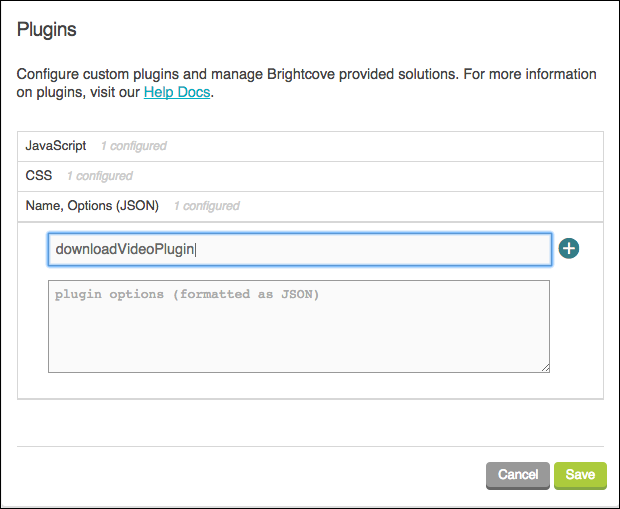
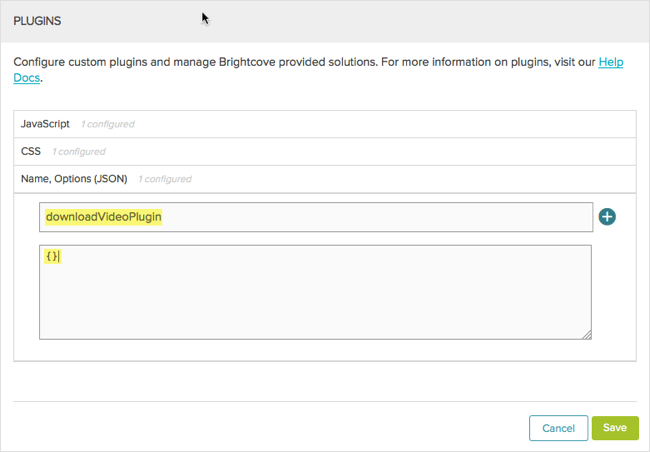
update Download Video doc

diff --git a/en/perform/brightcove-player/samples/download-video.html b/en/perform/brightcove-player/samples/download-video.html
@@ -24,13 +24,7 @@
   ga('send', 'pageview');
 
 </script>
-	<script src="https://cdnjs.cloudflare.com/ajax/libs/foundation/5.5.2/js/vendor/modernizr.js"></script>
-  <style type="text/css">
-    iframe {
-      width: 640px;
-      height: 360px;
-    }
-  </style>    
+	<script src="https://cdnjs.cloudflare.com/ajax/libs/foundation/5.5.2/js/vendor/modernizr.js"></script>   
 </head>
 
 <body>
@@ -119,18 +113,14 @@
 			<div id="player" class="section">
 				<h2>The player</h2>
 				<p>Click the download icon located on the right side of the control bar to download the highest quality MP4 rendition of the video loaded in the player.</p>
-        <iframe width='480' height='270' src='//players.brightcove.net/1752604059001/eab91441-ce41-4c12-8322-4b70ce6ac324_default/index.html' allowfullscreen webkitallowfullscreen mozallowfullscreen></iframe>
+        <iframe width='640' height='360' src='//players.brightcove.net/1752604059001/eab91441-ce41-4c12-8322-4b70ce6ac324_default/index.html' allowfullscreen webkitallowfullscreen mozallowfullscreen></iframe>
 			</div>
       
-			<div id="code" class="section">
-				<h2>How it works</h2>
-				<p>The following sections explain the player, JavaScript and CSS code used in the example.</p>
+       <div id="code" class="section">
+       <h2>How it works</h2>
+       <p>The following sections explain the player, JavaScript and CSS code used in the example.</p>
                 
         <h3>Create the player</h3>
-<!--
-        <p>Login to your Video Cloud Studio account and create a new video player. Open the player's properties page and edit the <strong>Video Content</strong> section. Here you can specify the <strong>Video ID</strong> for the video you wish to publish. Video IDs can be found in the Media module.</p>
-        <div><img src="/en/video-cloud/brightcove-player/samples/assets/navigate-on-video-end-video-id.png" alt="" class="video-cloud-only"></div>
--->
         <p>To create a player and assign a video to it, follow these steps:</p>
           <ol>
               <li>In the <strong>Players</strong> module, create a new player or use an existing one.</li>
@@ -139,63 +129,84 @@
           </ol>
           <p class="BCL-aside">For details on how to get this embed code, see the <a href="../../brightcove-player/getting-started/quick-start-bc-player.html">Quick Start to Brightcove Player</a> document.</p>
           <p>The embed code should look like this:</p>
-                
-<!--
-				<h3>The player code</h3>
-          <p>Once your player has been published, you can click the <strong>Embed Code &amp; URL</strong> button and choose the <strong>Published Player</strong> link. You will find the player code in the <strong>In-Page Embed Code</strong> section.</p>
--->
           <p><code data-gist-id="4decd28717b7e9c4d56e" data-gist-hide-footer="true" data-gist-line="27-34"></code></p>
                 
-				<h3>The JavaScript code</h3>
-				<p>The following provides an overview of the functionality of the code:</p>
-        <ol>
-            <li>Retrieve the video ID of video in the player. Notice that the data retrieved by the <code>options()</code> method includes <code>data-video-id</code>.
-            <div><img src="/en/video-cloud/brightcove-player/guides/assets/download-options.png" alt="download options"></div>
-            </li>
-            <li>Use the video's ID to get the video object and load the video. This may seem unnecessary as the video is already playing, but you need to load the video to populate the <code>mediainfo</code> property.</li>
-            <li>Retrieve the <code>sources</code> array from the <code>mediainfo</code> property, which includes as elements all renditions of the currently loaded video.
-                <div><img src="/en/video-cloud/brightcove-player/guides/assets/download-mediainfo.png" alt="download mediainfo"></div></li>
-            <li>Create another array which contains the filtered and sorted renditions so only the MP4 renditions are in a new array, sorted from largest to smallest.</li>
-            <li>Assign the zeroth element of the new array to a variable. The zeroth element contains the rendition with the largest size, hence the best quality.</li>
-            <li>Create a link for download.</li>
-        </ol>
+        <h3>The JavaScript code</h3>
+        <p>The following provides an overview of the functionality of the code:</p>
+            <ol>
+                <li>Retrieve the video ID of video in the player. Notice that the data retrieved by the <code>options()</code> method includes <code>data-video-id</code>.
+                <div><img src="/en/video-cloud/brightcove-player/guides/assets/download-options.png" alt="download options"></div>
+                </li>
+                <li>Use the video's ID to get the video object and load the video. This may seem unnecessary as the video is already playing, but you need to load the video to populate the <code>mediainfo</code> property.</li>
+                <li>Retrieve the <code>sources</code> array from the <code>mediainfo</code> property, which includes as elements all renditions of the currently loaded video.
+                    <div><img src="/en/video-cloud/brightcove-player/guides/assets/download-mediainfo.png" alt="download mediainfo"></div></li>
+                <li>Create another array which contains the filtered and sorted renditions so only the MP4 renditions are in a new array, sorted from largest to smallest.</li>
+                <li>Assign the zeroth element of the new array to a variable. The zeroth element contains the rendition with the largest size, hence the best quality.</li>
+                <li>Create a link for download.</li>
+            </ol>
+           
         <p>The following code is the actual implementation of the general steps above.</p>
-        <ul>
-            <li>Lines 28-35: Create variables used later in the code.</li>
-            <li>Line 36: Assign a variable the video ID, retrieved from data by calling the <code>options()</code> method.</li>
-            <li>Line 37: Use the <code>getVideo()</code> method, passing the video ID as a parameter, to get the video object of the currently playing video.</li>
-            <li>Line 38: Use the <code>load()</code> method.</li>
-            <li>Line 39: Assign the <code>name</code> of the video to a variable for later use in the link tag.</li>
-            <li>Line 40: Assign the <code>sources</code> array to a variable.</li>
-            <li>Line: 41: Assign the length of the array to variable.</li>
-            <li>Lines 42-46: Loop over the array and assign to a second array renditions where the <code>container</code> is <strong>MP4</strong>, AND the rendition has a <code>src</code> property. The MP4 renditions appear twice in the <code>sources</code> array, once with a <code>src</code> property and once with a <code>stream_name</code> property. The first is for progressive download and the second for streaming.</li>
-            <li>Lines 47-49: Sort the array of MP4s.</li>
-            <li>Line 50: Assign the largest rendition to a variable.</li>
-            <li>Lines 51-54: Create and style a <code>div</code> tag that contains the link.</li>
-            <li>Lines 55-56: Retrieve the <code>vjs-control-bar</code> element and append the newly create <code>div</code> to it. It may seem odd that with an append the icon appears on the left side of the control bar, but this is because all the other elements on the control bar are positioned using CSS.</li>
-        </ul>
+            <ul>
+                <li>Lines 38-45: Create variables used later in the code.</li>
+                <li>Line 47: Assign a variable the video ID, retrieved from data by calling the <code>options()</code> method.</li>
+                <li>Line 48: Use the <code>getVideo()</code> method, passing the video ID as a parameter, to get the video object of the currently playing video.</li>
+                <li>Line 49: Use the <code>load()</code> method.</li>
+                <li>Line 50: Assign the <code>name</code> of the video to a variable for later use in the link tag.</li>
+                <li>Line 51: Assign the <code>sources</code> array to a variable.</li>
+                <li>Line: 52: Assign the length of the array to variable.</li>
+                <li>Lines 53-57: Loop over the array and assign to a second array renditions where the <code>container</code> is <strong>MP4</strong>, AND the rendition has a <code>src</code> property. The MP4 renditions appear twice in the <code>sources</code> array, once with a <code>src</code> property and once with a <code>stream_name</code> property. The first is for progressive download and the second for streaming.</li>
+                <li>Lines 58-60: Sort the array of MP4s.</li>
+                <li>Line 61: Assign the largest rendition to a variable.</li>
+                <li>Lines 62-65: Define and create and a <code>div</code> tag that contains the link.</li>
+                <li>Lines 66-67: Retrieve the <code>vjs-control-bar</code> element and append the newly create <code>div</code> to it. It may seem odd that with an append the icon appears on the left side of the control bar, but this is because all the other elements on the control bar are positioned using CSS.</li>
+            </ul>
           <p><code data-gist-id="4decd28717b7e9c4d56e" data-gist-hide-footer="true" data-gist-line="36-70"></code></p>
-          <div class="BCL-aside">
-            <p>The <code>order</code> style determines the arrangement of icons on the control bar. For older browsers some more styles may be required, as shown here:</p>
-            <p><code data-gist-id="4decd28717b7e9c4d56e" data-gist-hide-footer="true" data-gist-line="274-280"></code></p>
-          </div>
-        <h3>The stylesheet</h3>
-				<p>No stylesheet is used in this implementation. The two styles for the icon were assigned via JavaScript, lines 52-54 above.</p>
-			</div>
+           
+           <h3>The stylesheet</h3>
+        <p>This example uses CSS styles for the Brightcove player.</p>
+		  <ul>
+              <li><p>Lines 10-14: Set the order of the download button in the control bar. This example places the download video button to the right of the fullscreen button.</p> 
+              <p class="BCL-aside">Note: the control bar uses a flex container to layout its elements. By default, flex items are laid out as they appear in the HTML source code. The CSS <code>order</code> property allows you to control the position of flex elements. For older browsers, you need to include additional prefixed order properties.</p>
+              <p>For more details about setting the control bar icon order, see the <a href="../../brightcove-player/guides/customize-appearance.html#iconorder">Customize Player Appearance</a> document.</p></li>
+			  <li>Line 15: Positions the download icon vertically.</li>
+              <li>Lines 17-21: Set the dimensions for the container and horizontally center the download icon within the container.</li>
+		  </ul>
+        <p><code data-gist-id="4decd28717b7e9c4d56e" data-gist-hide-footer="true" data-gist-line="7-22"></code></p>       
+	  </div>
       
 			<div id="plugin" class="section">
 				<h2>Use a plugin</h2>
 				<p>It is a best practice to use a plugin so that you can easily add the JavaScript code's functionality to multiple players.</p>
 				<h3>Create the JavaScript file</h3>
 				<p>Move the plugin's JavaScript code into a file and place it in an Internet accessible URL.</p>
-				<ul>
-				    <li>Lines 146,178: Use the standard syntax to begin and end a Brightcove Player plugin.</li>
-				    <li>Line 146: The first argument of the function call is the name of the function defined in the plugin code, in this case <code>downloadVideoPlugin</code>.</li>
-				    <li>Line 178: The trailing semicolon is required.</li>
-				</ul>
+                <ol>
+                  <li>Create a new file for your plugin JavaScript code. In this case, name it <code>download-video.js</code>.</li>
+                  <li>Cut and paste the JavaScript code from your main HTML file into this new file.</li>
+                  <li>Lines 153,185: Wrap your JavaScript code using the <code>videojs.plugin()</code> function. The first argument, <code>downloadVideoPlugin</code>, is the plugin name.</li>
+                  <li>Line 154: Gets a reference to your player.</li>
+                  <li>The rest is your JavaScript code which was reviewed in a previous section.</li>
+                </ol>
+                <p class="BCL-aside">Note: Line 185: Has a trailing semicolon at the end of the plugin's JavaScript code which is required.</p>
           <p><code data-gist-id="4decd28717b7e9c4d56e" data-gist-hide-footer="true" data-gist-line="153-185"></code></p>
-				<h3>Create the CSS file</h3>
-				<p>There is no CSS file needed for this plugin.</p>
+                <ol start="6">
+                  <li>In the HTML file, add the following code just below the existing <code>&lt;script&gt;</code> tags. This code includes the JavaScript file and then calls the method defined in that JavaScript.</li>
+                </ol>
+                <p><code data-gist-id="4decd28717b7e9c4d56e" data-gist-hide-footer="true" data-gist-line="287-288" ></code></p>
+                <ol start="7">
+                  <li>Browse the HTML page. You should see the download video button, except now your JavaScript code has been removed from the HTML page.</li>
+                </ol> 
+                
+                <h3>Create the CSS file</h3>
+              <p>Move the CSS styles into a file and place it in an Internet accessible URL.</p>
+              <ol>
+                  <li>Create a new file for your CSS styles. In this case, name it <code>download-video.css</code>.</li>
+                  <li>In the <code>&lt;head&gt;</code> section of your HTML file, add the following link to include your newly created CSS file.</li>
+                </ol>
+              <p><code data-gist-id="4decd28717b7e9c4d56e" data-gist-hide-footer="true" data-gist-line="285" ></code></p>
+              <ol start="3">
+                  <li>Browse the HTML page. You should see the download video button, except now your styles have been removed from the HTML page.</li>
+              </ol> 
+                
         <h3>Deploy plugin and CSS</h3>
         <p>To deploy the plugin using the Players module, follow these steps:</p>
         <ol>
@@ -203,10 +214,10 @@
           <li>Click the link for the player to open the player properties.</li>
           <li>Locate the <strong>Plugins</strong> section and click <strong>Edit</strong>.</li>
           <li>For the <strong>JavaScript URL</strong>, enter the URL which specifies the location of where you saved your plugin's JavaScript.</li>
-          <li>There is no CSS file to enter.</li>
+          <li>For the <strong>CSS URL</strong>, enter the URL which specifies the location of where you saved your plugin's CSS.</li>
           <li>For the <strong>Name</strong>, enter <strong>downloadVideoPlugin</strong>.</li>
           <li>There are no plugin options to enter. 
-              <div><img src="/en/video-cloud/brightcove-player/guides/assets/download-studio-plugin.png" alt="download video plugin"></div>
+              <div><img src="/en/video-cloud/brightcove-player/samples/assets/download-video-studio.png" alt="download video plugin"></div>
             </li>
             <li>Click <strong>Save</strong> and then <strong>Publish</strong> the player.</li>
           </ol>
@@ -214,7 +225,7 @@
       
       <div id="useiframe" class="section">
         <h2>Use iframe</h2>
-        <p>It is a best practice to use the iframe player implementation. Since you can create the download video functionality as a plugin, replace the embed_in_page implementation with the iframe implementation.</p>
+        <p>It is a best practice to use the iframe player implementation. Since you can create the download video functionality as a plugin, replace the In_Page embed implementation with the iframe implementation.</p>
           <p><code data-gist-id="4decd28717b7e9c4d56e" data-gist-hide-footer="true" data-gist-line="255-268"></code></p>
       </div>
 

diff --git a/en/video-cloud/brightcove-player/samples/download-video.html b/en/video-cloud/brightcove-player/samples/download-video.html
@@ -24,13 +24,7 @@
   ga('send', 'pageview');
 
 </script>
-	<script src="https://cdnjs.cloudflare.com/ajax/libs/foundation/5.5.2/js/vendor/modernizr.js"></script>
-  <style type="text/css">
-    iframe {
-      width: 640px;
-      height: 360px;
-    }
-  </style>    
+	<script src="https://cdnjs.cloudflare.com/ajax/libs/foundation/5.5.2/js/vendor/modernizr.js"></script>   
 </head>
 
 <body>
@@ -119,18 +113,14 @@
 			<div id="player" class="section">
 				<h2>The player</h2>
 				<p>Click the download icon located on the right side of the control bar to download the highest quality MP4 rendition of the video loaded in the player.</p>
-        <iframe width='480' height='270' src='//players.brightcove.net/1752604059001/eab91441-ce41-4c12-8322-4b70ce6ac324_default/index.html' allowfullscreen webkitallowfullscreen mozallowfullscreen></iframe>
+        <iframe width='640' height='360' src='//players.brightcove.net/1752604059001/eab91441-ce41-4c12-8322-4b70ce6ac324_default/index.html' allowfullscreen webkitallowfullscreen mozallowfullscreen></iframe>
 			</div>
       
-			<div id="code" class="section">
-				<h2>How it works</h2>
-				<p>The following sections explain the player, JavaScript and CSS code used in the example.</p>
+       <div id="code" class="section">
+       <h2>How it works</h2>
+       <p>The following sections explain the player, JavaScript and CSS code used in the example.</p>
                 
         <h3>Create the player</h3>
-<!--
-        <p>Login to your Video Cloud Studio account and create a new video player. Open the player's properties page and edit the <strong>Video Content</strong> section. Here you can specify the <strong>Video ID</strong> for the video you wish to publish. Video IDs can be found in the Media module.</p>
-        <div><img src="/en/video-cloud/brightcove-player/samples/assets/navigate-on-video-end-video-id.png" alt="" class="video-cloud-only"></div>
--->
         <p>To create a player and assign a video to it, follow these steps:</p>
           <ol>
               <li>In the <strong>Players</strong> module, create a new player or use an existing one.</li>
@@ -139,63 +129,84 @@
           </ol>
           <p class="BCL-aside">For details on how to get this embed code, see the <a href="../../brightcove-player/getting-started/quick-start-bc-player.html">Quick Start to Brightcove Player</a> document.</p>
           <p>The embed code should look like this:</p>
-                
-<!--
-				<h3>The player code</h3>
-          <p>Once your player has been published, you can click the <strong>Embed Code &amp; URL</strong> button and choose the <strong>Published Player</strong> link. You will find the player code in the <strong>In-Page Embed Code</strong> section.</p>
--->
           <p><code data-gist-id="4decd28717b7e9c4d56e" data-gist-hide-footer="true" data-gist-line="27-34"></code></p>
                 
-				<h3>The JavaScript code</h3>
-				<p>The following provides an overview of the functionality of the code:</p>
-        <ol>
-            <li>Retrieve the video ID of video in the player. Notice that the data retrieved by the <code>options()</code> method includes <code>data-video-id</code>.
-            <div><img src="/en/video-cloud/brightcove-player/guides/assets/download-options.png" alt="download options"></div>
-            </li>
-            <li>Use the video's ID to get the video object and load the video. This may seem unnecessary as the video is already playing, but you need to load the video to populate the <code>mediainfo</code> property.</li>
-            <li>Retrieve the <code>sources</code> array from the <code>mediainfo</code> property, which includes as elements all renditions of the currently loaded video.
-                <div><img src="/en/video-cloud/brightcove-player/guides/assets/download-mediainfo.png" alt="download mediainfo"></div></li>
-            <li>Create another array which contains the filtered and sorted renditions so only the MP4 renditions are in a new array, sorted from largest to smallest.</li>
-            <li>Assign the zeroth element of the new array to a variable. The zeroth element contains the rendition with the largest size, hence the best quality.</li>
-            <li>Create a link for download.</li>
-        </ol>
+        <h3>The JavaScript code</h3>
+        <p>The following provides an overview of the functionality of the code:</p>
+            <ol>
+                <li>Retrieve the video ID of video in the player. Notice that the data retrieved by the <code>options()</code> method includes <code>data-video-id</code>.
+                <div><img src="/en/video-cloud/brightcove-player/guides/assets/download-options.png" alt="download options"></div>
+                </li>
+                <li>Use the video's ID to get the video object and load the video. This may seem unnecessary as the video is already playing, but you need to load the video to populate the <code>mediainfo</code> property.</li>
+                <li>Retrieve the <code>sources</code> array from the <code>mediainfo</code> property, which includes as elements all renditions of the currently loaded video.
+                    <div><img src="/en/video-cloud/brightcove-player/guides/assets/download-mediainfo.png" alt="download mediainfo"></div></li>
+                <li>Create another array which contains the filtered and sorted renditions so only the MP4 renditions are in a new array, sorted from largest to smallest.</li>
+                <li>Assign the zeroth element of the new array to a variable. The zeroth element contains the rendition with the largest size, hence the best quality.</li>
+                <li>Create a link for download.</li>
+            </ol>
+           
         <p>The following code is the actual implementation of the general steps above.</p>
-        <ul>
-            <li>Lines 28-35: Create variables used later in the code.</li>
-            <li>Line 36: Assign a variable the video ID, retrieved from data by calling the <code>options()</code> method.</li>
-            <li>Line 37: Use the <code>getVideo()</code> method, passing the video ID as a parameter, to get the video object of the currently playing video.</li>
-            <li>Line 38: Use the <code>load()</code> method.</li>
-            <li>Line 39: Assign the <code>name</code> of the video to a variable for later use in the link tag.</li>
-            <li>Line 40: Assign the <code>sources</code> array to a variable.</li>
-            <li>Line: 41: Assign the length of the array to variable.</li>
-            <li>Lines 42-46: Loop over the array and assign to a second array renditions where the <code>container</code> is <strong>MP4</strong>, AND the rendition has a <code>src</code> property. The MP4 renditions appear twice in the <code>sources</code> array, once with a <code>src</code> property and once with a <code>stream_name</code> property. The first is for progressive download and the second for streaming.</li>
-            <li>Lines 47-49: Sort the array of MP4s.</li>
-            <li>Line 50: Assign the largest rendition to a variable.</li>
-            <li>Lines 51-54: Create and style a <code>div</code> tag that contains the link.</li>
-            <li>Lines 55-56: Retrieve the <code>vjs-control-bar</code> element and append the newly create <code>div</code> to it. It may seem odd that with an append the icon appears on the left side of the control bar, but this is because all the other elements on the control bar are positioned using CSS.</li>
-        </ul>
+            <ul>
+                <li>Lines 38-45: Create variables used later in the code.</li>
+                <li>Line 47: Assign a variable the video ID, retrieved from data by calling the <code>options()</code> method.</li>
+                <li>Line 48: Use the <code>getVideo()</code> method, passing the video ID as a parameter, to get the video object of the currently playing video.</li>
+                <li>Line 49: Use the <code>load()</code> method.</li>
+                <li>Line 50: Assign the <code>name</code> of the video to a variable for later use in the link tag.</li>
+                <li>Line 51: Assign the <code>sources</code> array to a variable.</li>
+                <li>Line: 52: Assign the length of the array to variable.</li>
+                <li>Lines 53-57: Loop over the array and assign to a second array renditions where the <code>container</code> is <strong>MP4</strong>, AND the rendition has a <code>src</code> property. The MP4 renditions appear twice in the <code>sources</code> array, once with a <code>src</code> property and once with a <code>stream_name</code> property. The first is for progressive download and the second for streaming.</li>
+                <li>Lines 58-60: Sort the array of MP4s.</li>
+                <li>Line 61: Assign the largest rendition to a variable.</li>
+                <li>Lines 62-65: Define and create and a <code>div</code> tag that contains the link.</li>
+                <li>Lines 66-67: Retrieve the <code>vjs-control-bar</code> element and append the newly create <code>div</code> to it. It may seem odd that with an append the icon appears on the left side of the control bar, but this is because all the other elements on the control bar are positioned using CSS.</li>
+            </ul>
           <p><code data-gist-id="4decd28717b7e9c4d56e" data-gist-hide-footer="true" data-gist-line="36-70"></code></p>
-          <div class="BCL-aside">
-            <p>The <code>order</code> style determines the arrangement of icons on the control bar. For older browsers some more styles may be required, as shown here:</p>
-            <p><code data-gist-id="4decd28717b7e9c4d56e" data-gist-hide-footer="true" data-gist-line="274-280"></code></p>
-          </div>
-        <h3>The stylesheet</h3>
-				<p>No stylesheet is used in this implementation. The two styles for the icon were assigned via JavaScript, lines 52-54 above.</p>
-			</div>
+           
+           <h3>The stylesheet</h3>
+        <p>This example uses CSS styles for the Brightcove player.</p>
+		  <ul>
+              <li><p>Lines 10-14: Set the order of the download button in the control bar. This example places the download video button to the right of the fullscreen button.</p> 
+              <p class="BCL-aside">Note: the control bar uses a flex container to layout its elements. By default, flex items are laid out as they appear in the HTML source code. The CSS <code>order</code> property allows you to control the position of flex elements. For older browsers, you need to include additional prefixed order properties.</p>
+              <p>For more details about setting the control bar icon order, see the <a href="../../brightcove-player/guides/customize-appearance.html#iconorder">Customize Player Appearance</a> document.</p></li>
+			  <li>Line 15: Positions the download icon vertically.</li>
+              <li>Lines 17-21: Set the dimensions for the container and horizontally center the download icon within the container.</li>
+		  </ul>
+        <p><code data-gist-id="4decd28717b7e9c4d56e" data-gist-hide-footer="true" data-gist-line="7-22"></code></p>       
+	  </div>
       
 			<div id="plugin" class="section">
 				<h2>Use a plugin</h2>
 				<p>It is a best practice to use a plugin so that you can easily add the JavaScript code's functionality to multiple players.</p>
 				<h3>Create the JavaScript file</h3>
 				<p>Move the plugin's JavaScript code into a file and place it in an Internet accessible URL.</p>
-				<ul>
-				    <li>Lines 146,178: Use the standard syntax to begin and end a Brightcove Player plugin.</li>
-				    <li>Line 146: The first argument of the function call is the name of the function defined in the plugin code, in this case <code>downloadVideoPlugin</code>.</li>
-				    <li>Line 178: The trailing semicolon is required.</li>
-				</ul>
+                <ol>
+                  <li>Create a new file for your plugin JavaScript code. In this case, name it <code>download-video.js</code>.</li>
+                  <li>Cut and paste the JavaScript code from your main HTML file into this new file.</li>
+                  <li>Lines 153,185: Wrap your JavaScript code using the <code>videojs.plugin()</code> function. The first argument, <code>downloadVideoPlugin</code>, is the plugin name.</li>
+                  <li>Line 154: Gets a reference to your player.</li>
+                  <li>The rest is your JavaScript code which was reviewed in a previous section.</li>
+                </ol>
+                <p class="BCL-aside">Note: Line 185: Has a trailing semicolon at the end of the plugin's JavaScript code which is required.</p>
           <p><code data-gist-id="4decd28717b7e9c4d56e" data-gist-hide-footer="true" data-gist-line="153-185"></code></p>
-				<h3>Create the CSS file</h3>
-				<p>There is no CSS file needed for this plugin.</p>
+                <ol start="6">
+                  <li>In the HTML file, add the following code just below the existing <code>&lt;script&gt;</code> tags. This code includes the JavaScript file and then calls the method defined in that JavaScript.</li>
+                </ol>
+                <p><code data-gist-id="4decd28717b7e9c4d56e" data-gist-hide-footer="true" data-gist-line="287-288" ></code></p>
+                <ol start="7">
+                  <li>Browse the HTML page. You should see the download video button, except now your JavaScript code has been removed from the HTML page.</li>
+                </ol> 
+                
+                <h3>Create the CSS file</h3>
+              <p>Move the CSS styles into a file and place it in an Internet accessible URL.</p>
+              <ol>
+                  <li>Create a new file for your CSS styles. In this case, name it <code>download-video.css</code>.</li>
+                  <li>In the <code>&lt;head&gt;</code> section of your HTML file, add the following link to include your newly created CSS file.</li>
+                </ol>
+              <p><code data-gist-id="4decd28717b7e9c4d56e" data-gist-hide-footer="true" data-gist-line="285" ></code></p>
+              <ol start="3">
+                  <li>Browse the HTML page. You should see the download video button, except now your styles have been removed from the HTML page.</li>
+              </ol> 
+                
         <h3>Deploy plugin and CSS</h3>
         <p>To deploy the plugin using the Players module, follow these steps:</p>
         <ol>
@@ -203,10 +214,10 @@
           <li>Click the link for the player to open the player properties.</li>
           <li>Locate the <strong>Plugins</strong> section and click <strong>Edit</strong>.</li>
           <li>For the <strong>JavaScript URL</strong>, enter the URL which specifies the location of where you saved your plugin's JavaScript.</li>
-          <li>There is no CSS file to enter.</li>
+          <li>For the <strong>CSS URL</strong>, enter the URL which specifies the location of where you saved your plugin's CSS.</li>
           <li>For the <strong>Name</strong>, enter <strong>downloadVideoPlugin</strong>.</li>
           <li>There are no plugin options to enter. 
-              <div><img src="/en/video-cloud/brightcove-player/guides/assets/download-studio-plugin.png" alt="download video plugin"></div>
+              <div><img src="/en/video-cloud/brightcove-player/samples/assets/download-video-studio.png" alt="download video plugin"></div>
             </li>
             <li>Click <strong>Save</strong> and then <strong>Publish</strong> the player.</li>
           </ol>
@@ -214,7 +225,7 @@
       
       <div id="useiframe" class="section">
         <h2>Use iframe</h2>
-        <p>It is a best practice to use the iframe player implementation. Since you can create the download video functionality as a plugin, replace the embed_in_page implementation with the iframe implementation.</p>
+        <p>It is a best practice to use the iframe player implementation. Since you can create the download video functionality as a plugin, replace the In_Page embed implementation with the iframe implementation.</p>
           <p><code data-gist-id="4decd28717b7e9c4d56e" data-gist-hide-footer="true" data-gist-line="255-268"></code></p>
       </div>
 
